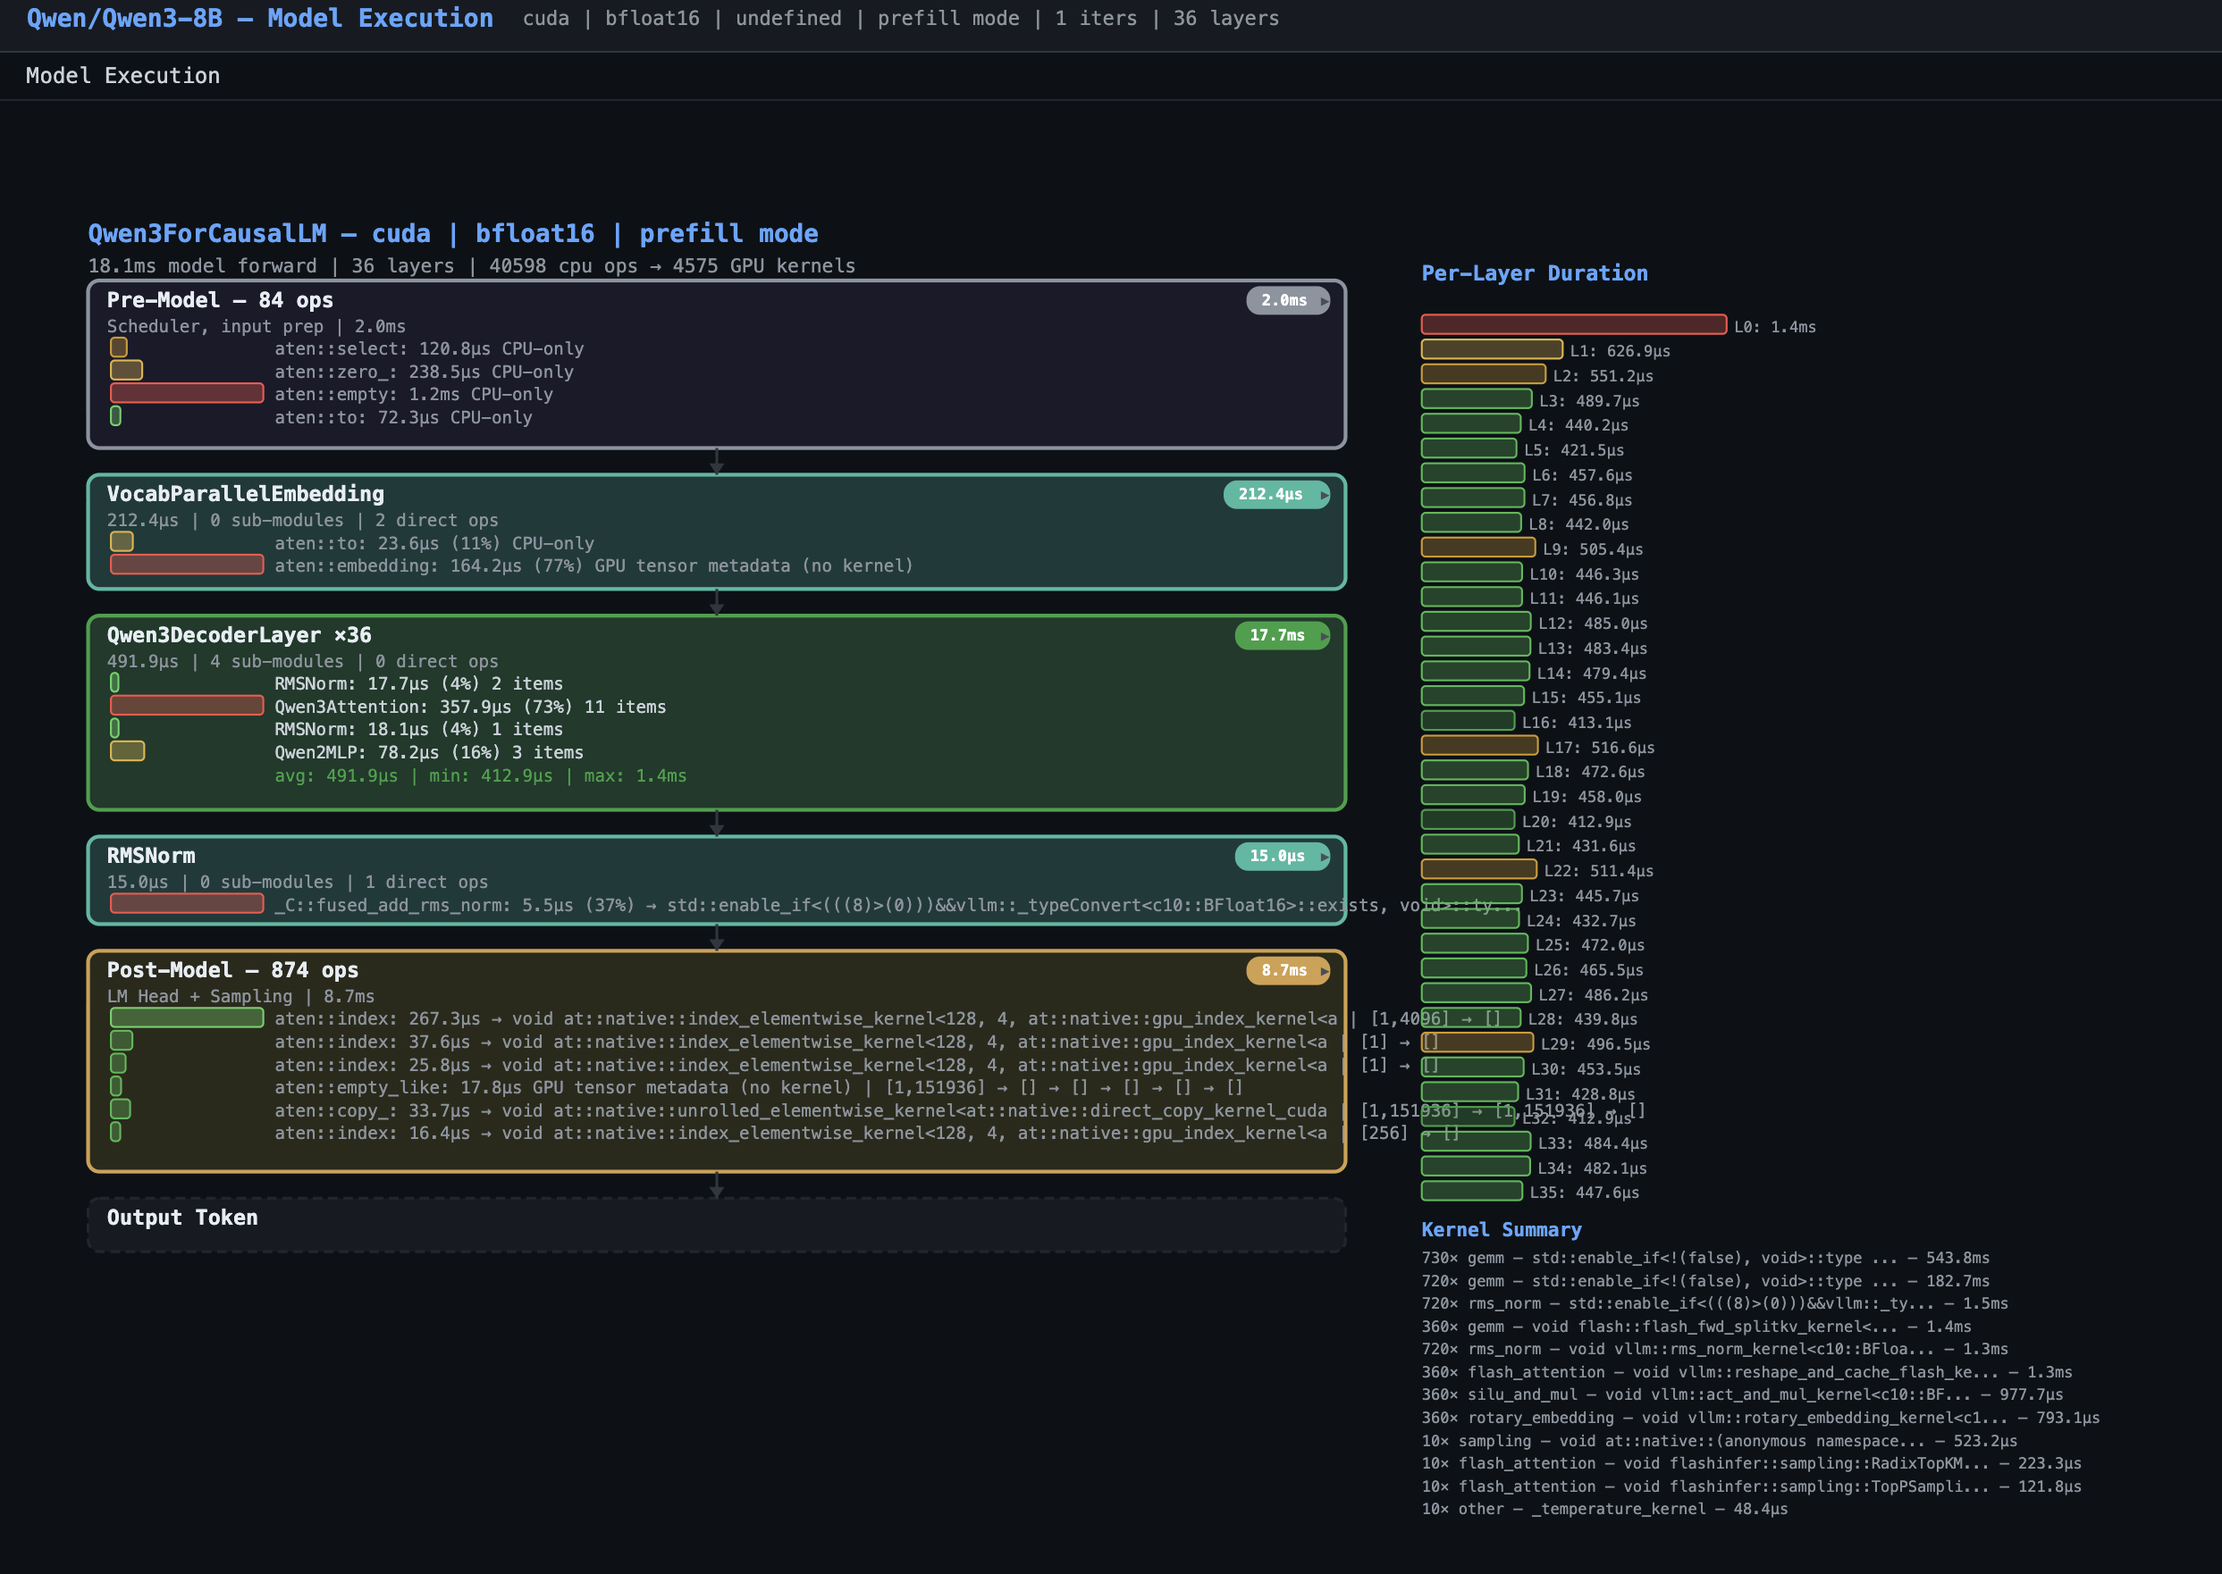
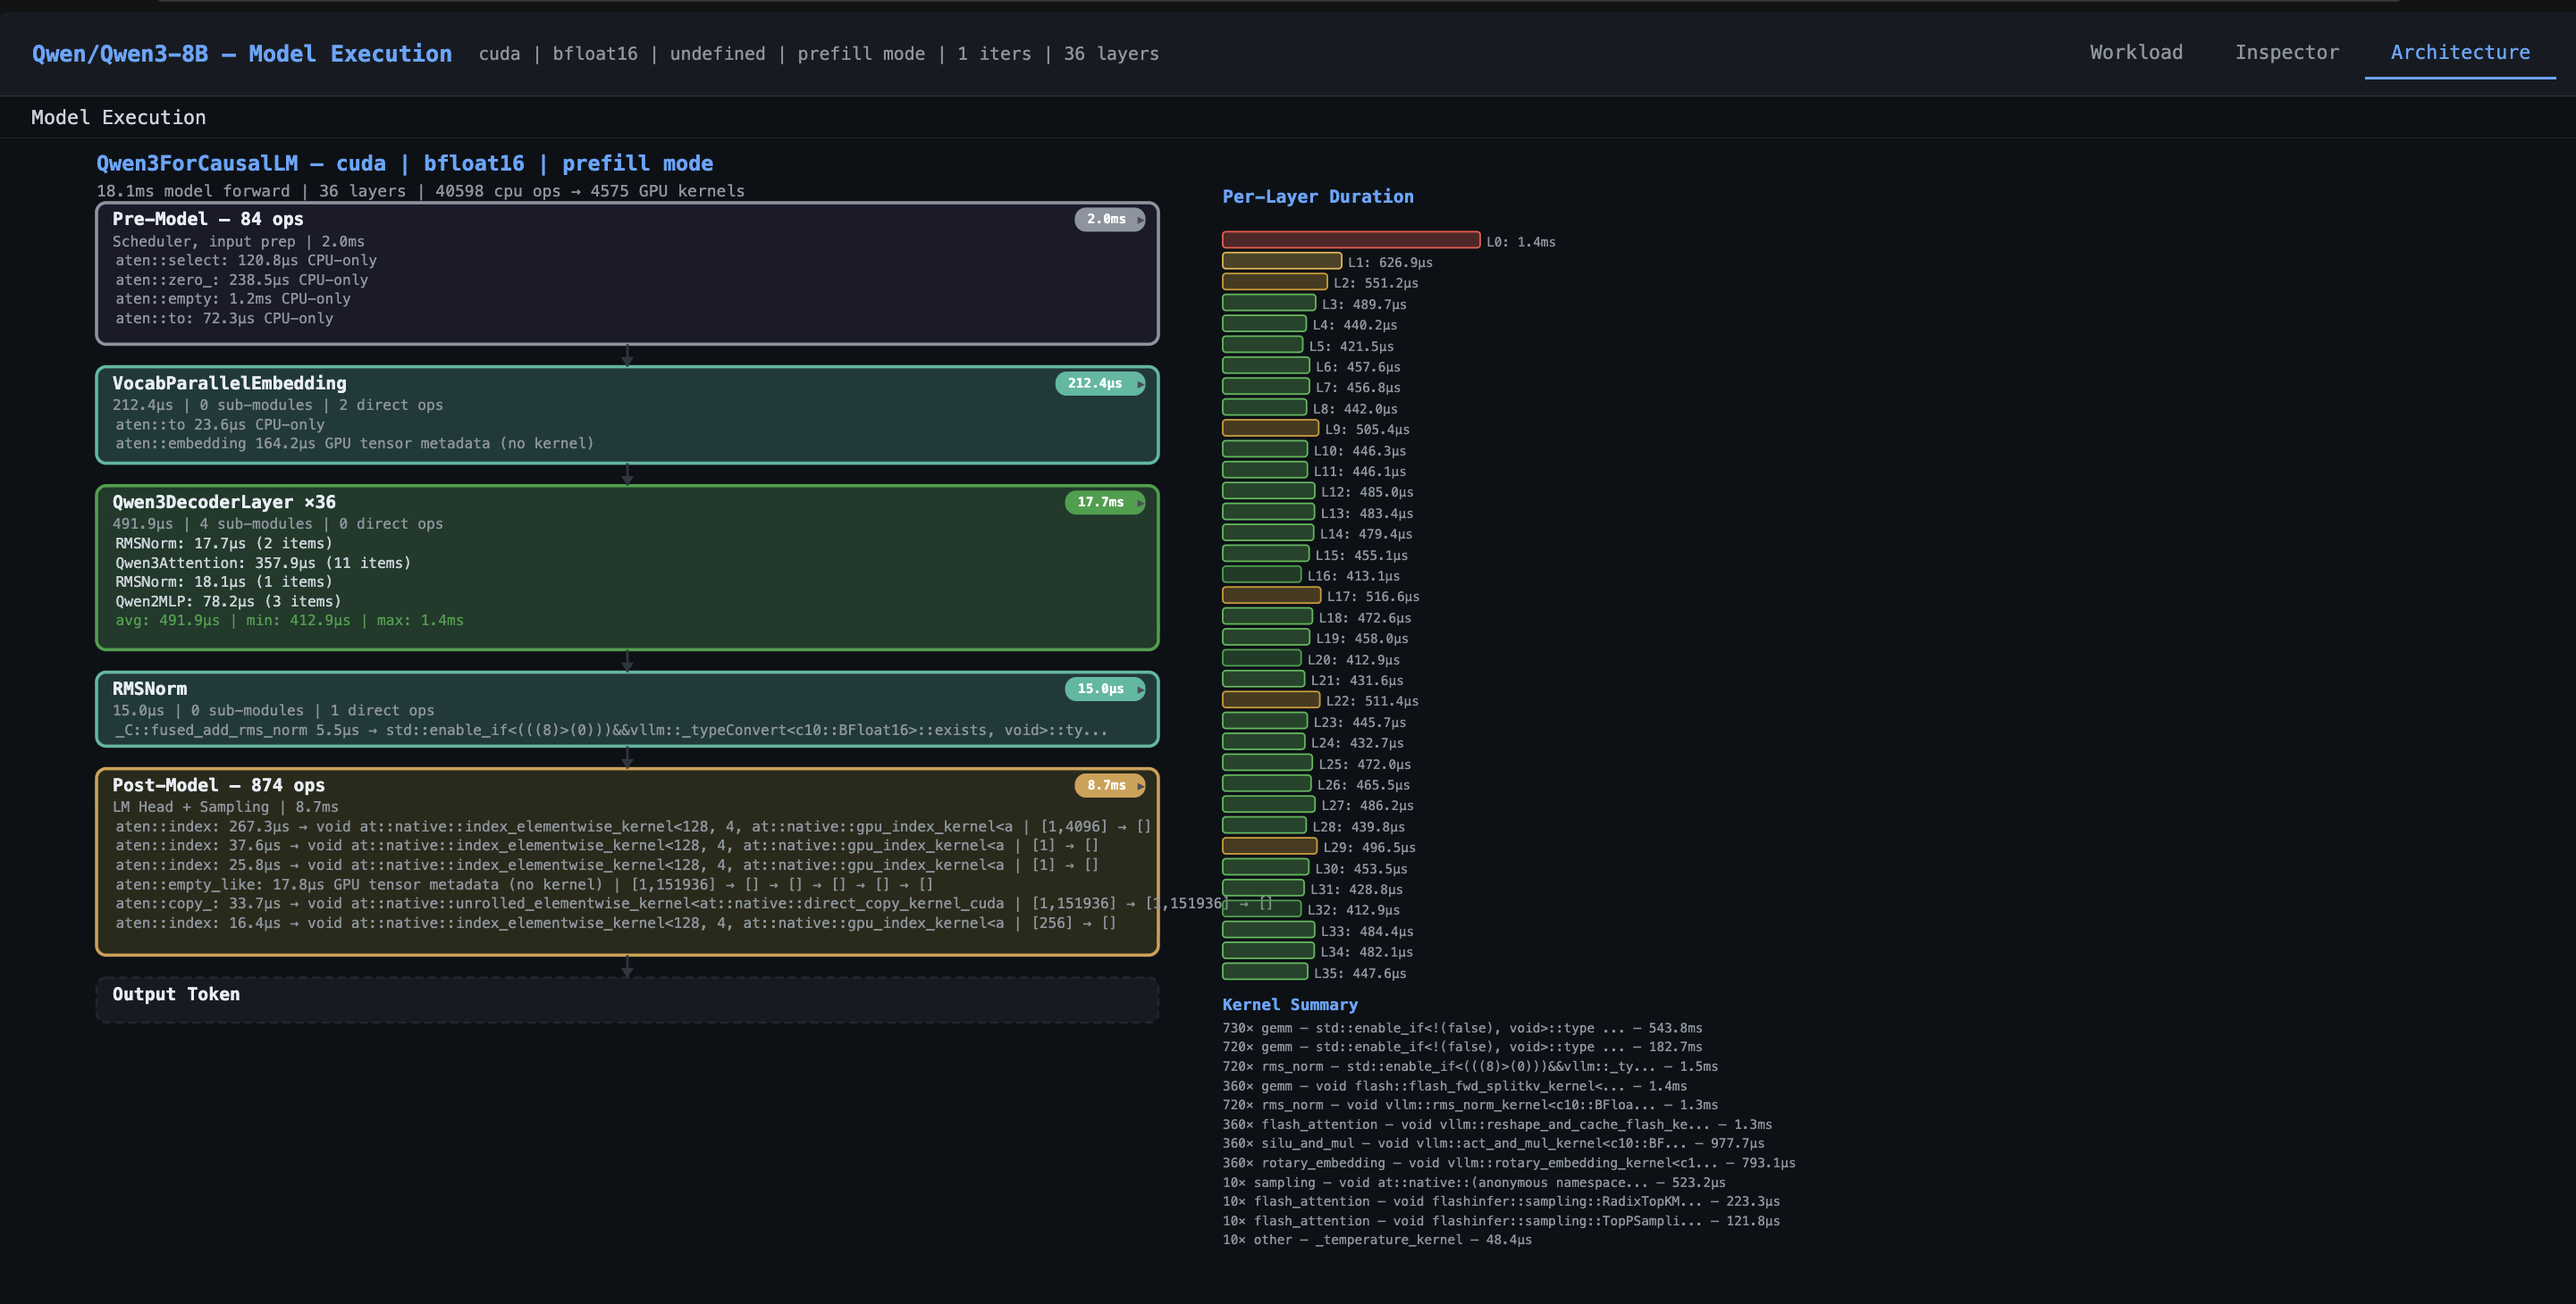
updating the README.md+ adding images

diff --git a/README.md b/README.md
@@ -243,8 +243,24 @@ Tested on DGX SPARK + Qwen/Qwen3-8B.
 
 ## Screenshots
 
-Top-level model view:
-![Top view](./docs/images/qwen3_1.png)
+### Workload Dashboard
+Request timeline (Gantt chart with real start times), per-request E2E latency, TTFT, decode, queue, ITL, and server-side Prometheus metrics.
+
+![Workload Dashboard](./docs/images/workload.png)
+
+### Request Inspector
+Per-request drill-down: TTFT/decode breakdown bar, hierarchical call tree with per-request timing columns, per-layer heatmap, and inter-token latency chart.
+
+![Inspector overview](./docs/images/inspector_a.png)
+
+Module tree with CPU op → GPU kernel mapping across 3 requests. Layer variance chart (right) shows per-layer timing with outlier detection.
+
+![Inspector module tree](./docs/images/inspector_b.png)
+
+### Architecture
+Top-level model view with per-layer duration sidebar:
+
+![Architecture top view](./docs/images/qwen3_1.png)
 
 Decoder layer detail:
 ![Decoder layer](./docs/images/qwen3_2.png)
